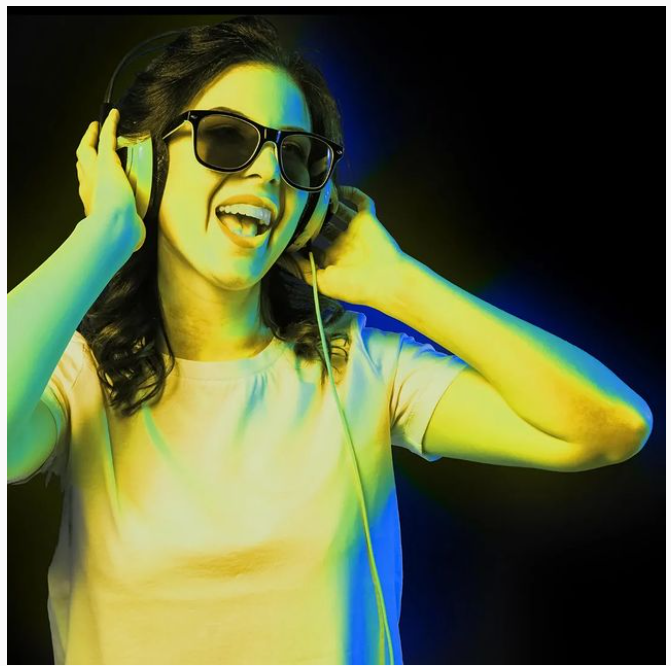
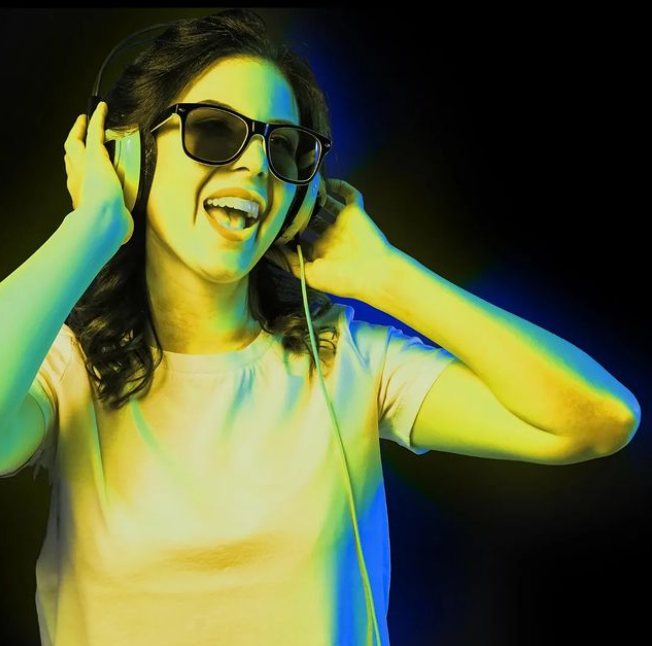
add documentation

diff --git a/pages/documentazione.js b/pages/documentazione.js
@@ -286,11 +286,12 @@ export default function Home() {
             </Row>
             <h4 className='text-center mt-2'>20 like a un post del profilo instagram</h4>          
             <Row className="d-flex align-items-center">
-              <Col md={8}><img src='./graph/post.png' className='w-100 border' alt="retro brochure pubblicitaria di Play"/></Col>
-              <Col md={4}>
+              <Col md={7}><img src='./graph/post.png' className='w-75' alt="retro brochure pubblicitaria di Play"/></Col>
+              <Col md={5}>
                 <p>
                   Essendo instagram il mezzo scelto per la promozione, i post sono creati per invogliare l'utente a 
-                  guardare il sito web, motivo per il quale l'obiettivo riguardo al numero dei like non è particolarmente altro.
+                  guardare il sito web, motivo per il quale l'obiettivo riguardo al numero dei like non è particolarmente altro.<br/>
+                  <a class='text-light' href='https://www.instagram.com/p/CdEWHSTj7E1/?utm_source=ig_web_copy_link'>Post</a>
                 </p>
               </Col>
               </Row>
